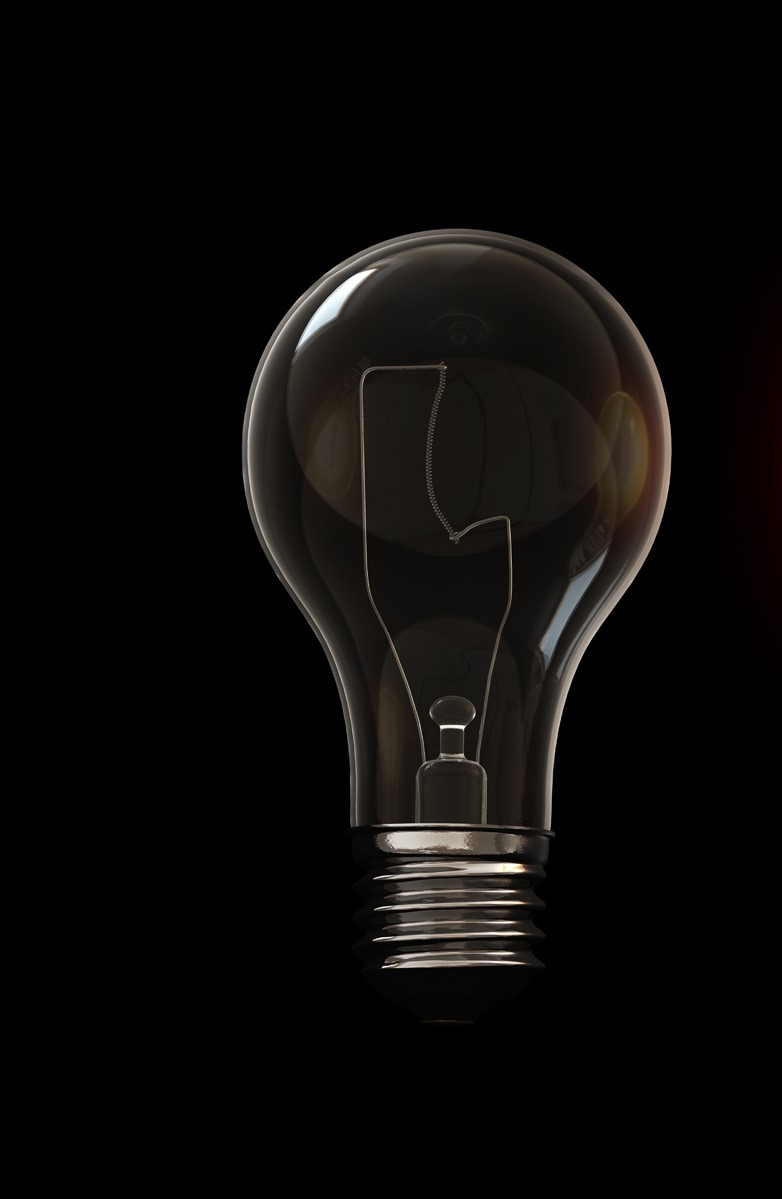
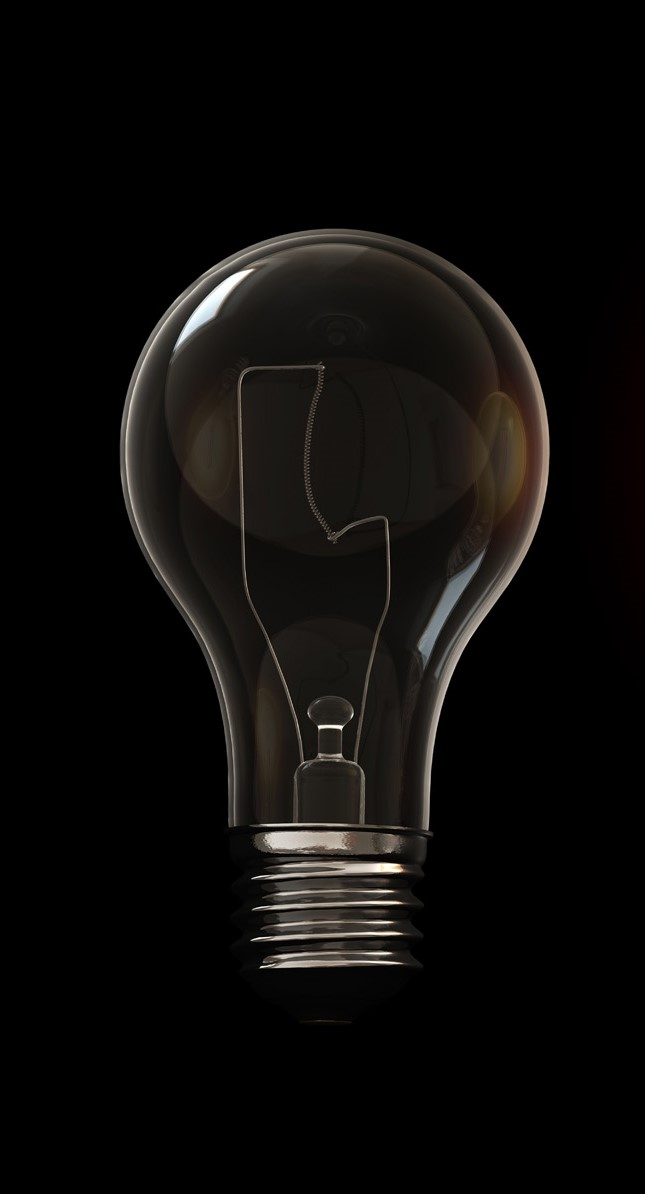
update assests and build code

diff --git a/src/app/components/light-switch/light-switch.component.css b/src/app/components/light-switch/light-switch.component.css
@@ -12,3 +12,15 @@ height: 60px;
 .light-margin {
 margin: 10px;
 }
+
+.light-status {
+    margin: 0 auto;
+    width: 100%;
+    height: 500px;
+    position: relative;
+    background: black;
+}
+
+.light-status > img {
+    height: 100%;
+}
